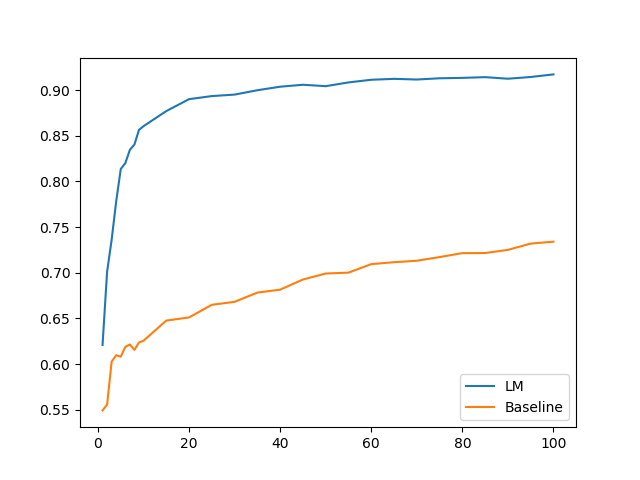
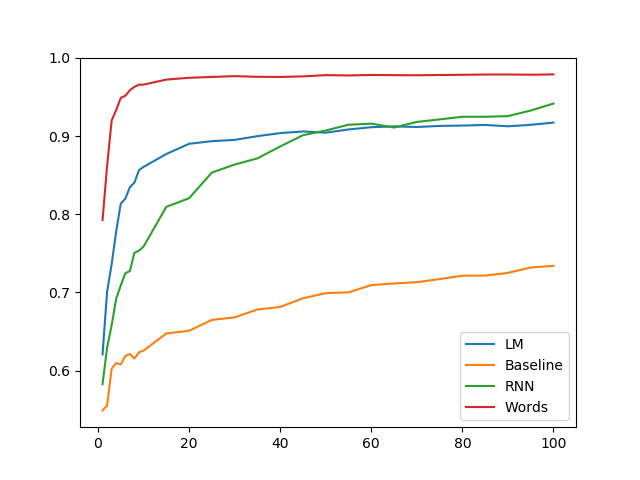
new results

diff --git a/writeups/char-rnn-knowledge/experiments.tex b/writeups/char-rnn-knowledge/experiments.tex
@@ -50,17 +50,17 @@ distributional, with no aid from perceptual or articulatory cues.
       \hline
       \multicolumn{4}{c}{\emph{German}}\\
       \hline
-           bu &  bt &  \textbf{ 4.6} \\
-           do &  dd &  \textbf{ 1.9} \\
-           fu &  ft &  \textbf{ 6.5} \\
-           po &  pt &  \textbf{ 6.4} \\
-           tu &  tt &  \textbf{ 5.4} \\
-           zu &  zt &  \textbf{ 2.4} \\ \hline
-    bl &  bd & 0.8 \\
-           fl &  fd &  \textbf{ 2.1} \\
-           fr &  fn &  \textbf{ 2.7} \\
-           kl &  kt &  \textbf{ 3.8} \\
-           pl &  pt &  \textbf{ 2.5} \\
+           bu &  bt &  \textbf{ 4.6} &  0.22     \\
+           do &  dd &  \textbf{ 1.9} &  0.05     \\
+           fu &  ft &  \textbf{ 6.5} &  0.03     \\
+           po &  pt &  \textbf{ 6.4} &  0.10     \\
+           tu &  tt &  \textbf{ 5.4} &  0.02     \\
+           zu &  zt &  \textbf{ 2.4} &  0.17     \\ \hline
+           bl &  bd &   0.8          & 0.18       \\
+           fl &  fd &  \textbf{ 2.1} & 0.82      \\
+           fr &  fn &  \textbf{ 2.7} & 0.10      \\
+           kl &  kt &  \textbf{ 3.8} & 0.10      \\
+           pl &  pt &  \textbf{ 2.5} & 0.86      \\
 
       \hline
       \multicolumn{4}{c}{\emph{Italian}}\\
@@ -100,7 +100,7 @@ We then recorded the hidden states of the CNLM after reading each of these words
 We randomly selected N=20 training examples, balanced between the two POS classes, to create a logistic classifier distinguishing nouns and verbs from the hidden states, and tested on the remaining examples.
 We repeated this experiment 100 times to control for variation between the random train-test splits.
 
-As baselines, we considered the autoencoder and word embeddings from the word-based language model.
+As baselines, we considered the autoencoder and word embeddings from the output layer of the word-based language model.
 We further ran the RNN CNLM.
 
 Results are shown in Table~\ref{tab:pos-results}.
@@ -120,22 +120,19 @@ Resulting accuracies for German are shown in Figure~\ref{fig:pos-induction}; the
     \begin{tabular}{l|l|l}
       \multicolumn{1}{c}{}&\emph{German}&\emph{Italian}\\
       \hline
-      LSTM&\ldots&\ldots\\
-      RNN&\ldots&\ldots\\
-      Autoencoder&\ldots&\ldots\\
-      WordNLM&\ldots&\ldots\\
+      LSTM & 89.0 & 94.0 \\
+      RNN & 82.0 & 91.9 \\
+      Autoencoder & 65.1 & 82.8 \\
+      WordNLM & 97.4 & 96.0 \\
     \end{tabular}
   \end{center}
-  \caption{\label{tab:pos-results} \ldots}
+  \caption{\label{tab:pos-results} POS accuracy (20 training examples per category)}
 \end{table}
 
 %Report CNLM vs baseline comparison in function of training examples as in the Quip (possibly for a language only).
 
 \begin{figure}
 \includegraphics[width=0.48\textwidth]{figures/german_pos_nouns_verbs.png}
-%\includegraphics[width=0.24\textwidth]{figures/german-gender-f.pdf}
-%\includegraphics[width=0.24\textwidth]{figures/german-gender-n.pdf}
-%\includegraphics[width=0.24\textwidth]{figures/german-gender-total.pdf}
 	\caption{POS accuracy as a function of training examples for the LSTM (blue) and the autoencoder (orange) in German.}\label{fig:pos-induction}
 \end{figure}
 
